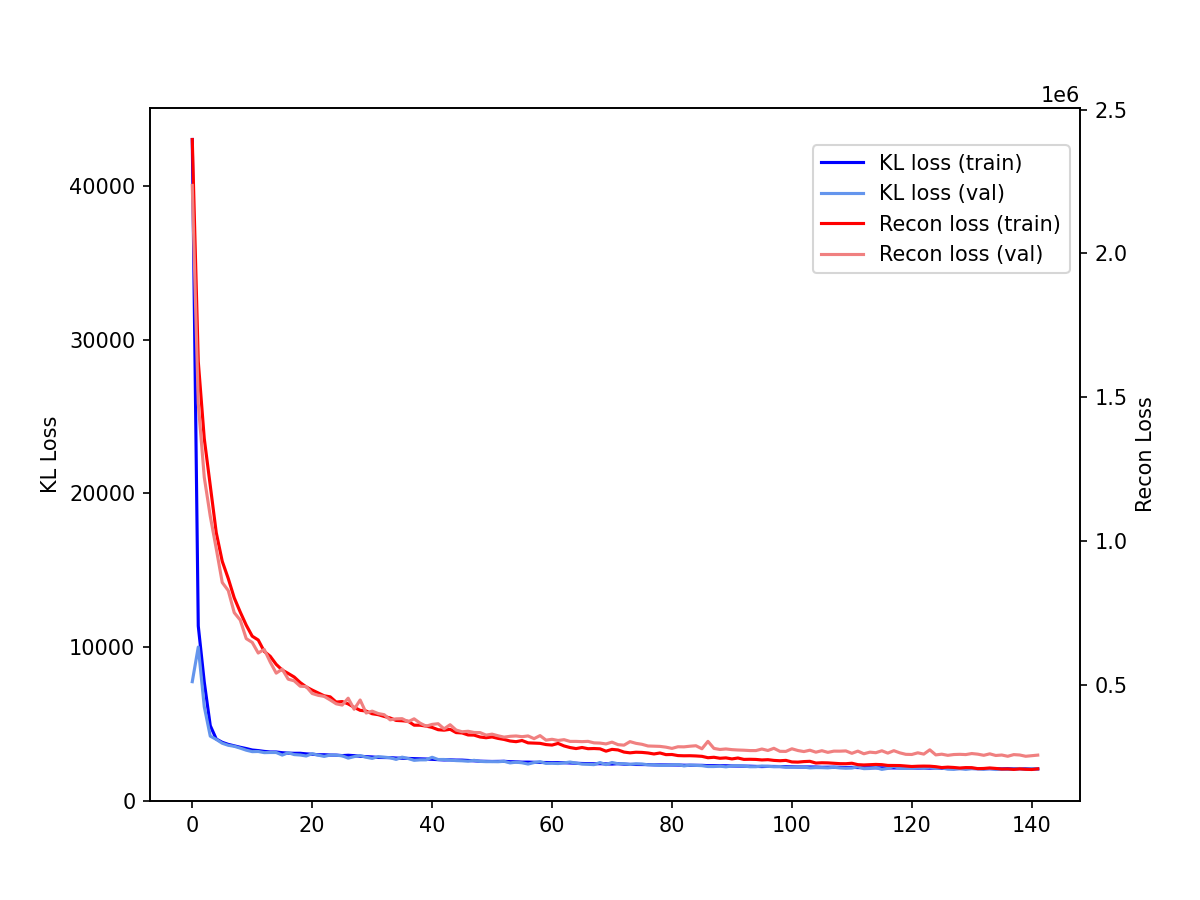
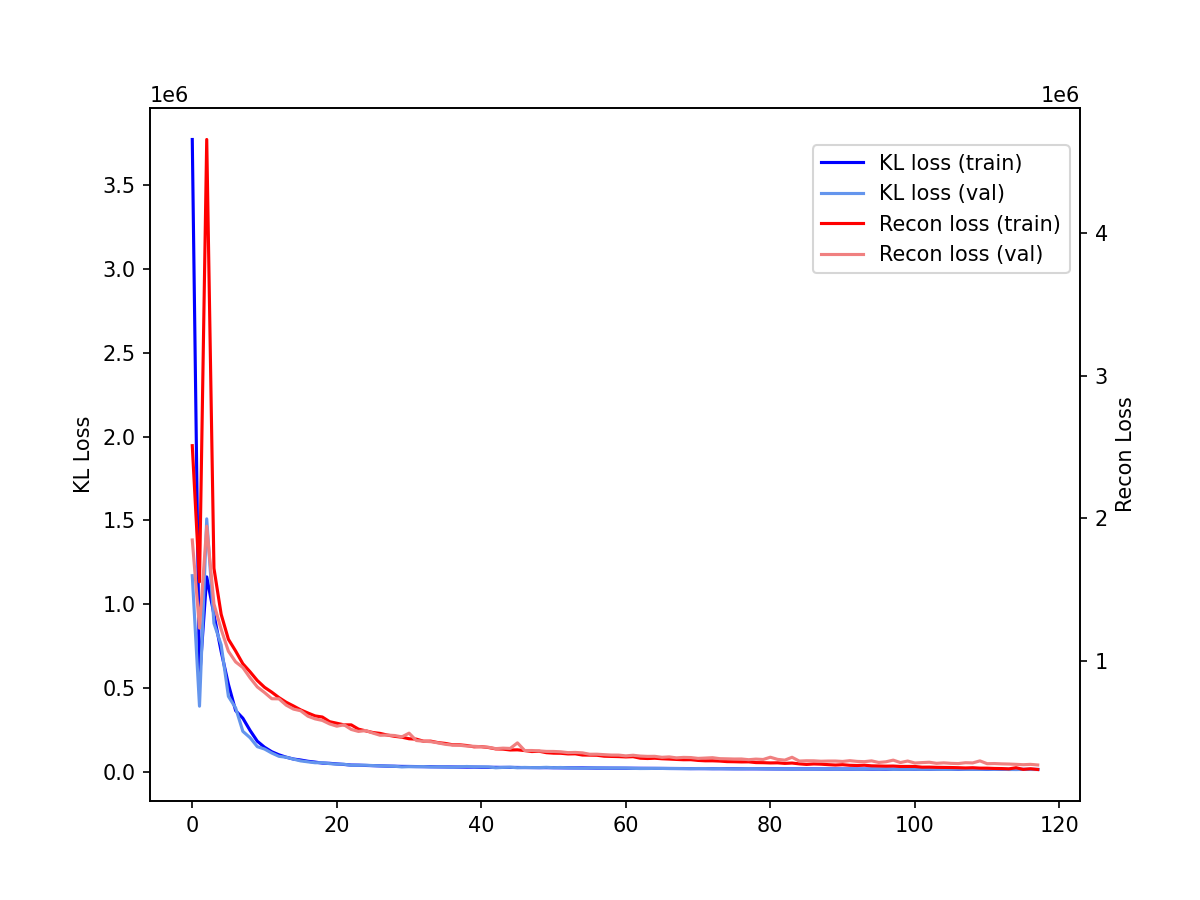
env.yml

diff --git a/train.py b/train.py
@@ -5,6 +5,7 @@ from plotting import plot_examples
 
 scaler = torch.cuda.amp.GradScaler()
 
+
 def train_loop(dataloader, model, loss_fn_kl, loss_fn_recon, optimizer, amp_on):
     """TRAIN_LOOP - Runs training for one epoch
     
@@ -37,7 +38,7 @@ def train_loop(dataloader, model, loss_fn_kl, loss_fn_recon, optimizer, amp_on):
             y_pred, z_mean, z_log_sigma = model(X)
             batch_loss_kl = loss_fn_kl(z_mean, z_log_sigma)
             batch_loss_recon = loss_fn_recon(y_pred, y)
-            batch_loss = batch_loss_kl + batch_loss_recon  # Consider weights here. IDK which loss is gonna dominate
+            batch_loss = 0.01 * batch_loss_kl + batch_loss_recon  # Consider weights here. IDK which loss is gonna dominate
 
         # Backpropagation - with GradScaler for optional automatic mixed precision
         scaler.scale(batch_loss).backward()
@@ -73,6 +74,9 @@ def val_loop(dataloader, model, loss_fn_kl, loss_fn_recon, epoch_number):
         loss_fn_recon (nn.Module): Reconstruction loss - e.g. L1, L2 (mse)
         epoch_number (int): epoch counter for saving plots
     """
+    # Stop training during validation
+    model.eval()
+
     size = len(dataloader.dataset)
     num_batches = len(dataloader)
     loss_kl, loss_recon = 0, 0
@@ -116,12 +120,15 @@ def test_loop(dataloader, model, loss_fn_kl, loss_fn_recon, plot_save_dir):
     Returns:
 
     """
+    # Do not train model at test time
+    model.eval()
+
     size = len(dataloader.dataset)
     num_batches = len(dataloader)
     loss_kl, loss_recon = 0, 0
-    psnr = [] # A list of per-batch PSNR values
-    ssim = [] # A list of per-image SSIM values
-    ssim_norm = [] # A list of per-image SSIM values computed on normalized images
+    psnr = []  # A list of per-batch PSNR values
+    ssim = []  # A list of per-image SSIM values
+    ssim_norm = []  # A list of per-image SSIM values computed on normalized images
 
     with torch.no_grad():
         for batch, (X, y) in enumerate(dataloader):
@@ -139,10 +146,10 @@ def test_loop(dataloader, model, loss_fn_kl, loss_fn_recon, plot_save_dir):
                           y_pred=y_pred.cpu(),
                           plot_path=plot_save_dir + "test_examples_batch_" + str(batch) + ".png")
 
-            psnr = psnr.append(calculate_psnr(y, y_pred))
+            psnr.append(calculate_psnr(y, y_pred))
             s, s_norm = calculate_ssim(y, y_pred)
-            ssim = ssim.extend(s)
-            ssim_norm = ssim_norm.extend(s_norm)
+            ssim.append(s)
+            ssim_norm.append(s_norm)
 
     loss_kl /= num_batches
     loss_recon /= num_batches

diff --git a/model.py b/model.py
@@ -85,18 +85,6 @@ class Encoder(nn.Module):
         self.res_block4 = ResNetBlock(channels=256, kernel_size=3)
         self.MaxPool4 = nn.MaxPool2d(3, stride=2, padding=1)
 
-        self.kaiming_init()
-
-    def xavier_init(self):
-        for weight in self.parameters():
-            std_dev = 1.0 / math.sqrt(weight.size(0))
-            torch.nn.init.uniform_(weight, -std_dev, std_dev)
-
-    def kaiming_init(self):
-        for param in self.parameters():
-            std = math.sqrt(2 / param.size(0))
-            torch.nn.init.normal_(param, mean=0, std=std)
-
     def forward(self, x):
         x1 = self.conv1(x)
         x1 = self.res_block1(x1)
@@ -134,18 +122,6 @@ class Decoder(nn.Module):
         self.upsize1 = UpConvBlock(channels_in=32, channels_out=1, kernel_size=1, scale_factor=2)
         self.res_block1 = ResNetBlock(channels=1, kernel_size=3)
 
-        self.kaiming_init()
-
-    def xavier_init(self):
-        for param in self.parameters():
-            std_dev = 1.0 / math.sqrt(param.size(0))
-            torch.nn.init.uniform_(param, -std_dev, std_dev)
-
-    def kaiming_init(self):
-        for param in self.parameters():
-            std = math.sqrt(2 / param.size(0))
-            torch.nn.init.normal_(param, mean=0, std=std)
-
     def forward(self, x):
         x4_ = self.linear_up(x)
         x4_ = self.relu(x4_)
@@ -181,12 +157,17 @@ class VAE(nn.Module):
         self.encoder = Encoder()
         self.decoder = Decoder(latent_dim)
 
-        self.kaiming_init()
+        self.xavier_init()
 
     def kaiming_init(self):
         for param in self.parameters():
             std = math.sqrt(2 / param.size(0))
             torch.nn.init.normal_(param, mean=0, std=std)
+
+    def xavier_init(self):
+        for param in self.parameters():
+            std_dev = 1.0 / math.sqrt(param.size(0))
+            torch.nn.init.uniform_(param, -std_dev, std_dev)
 
     def forward(self, x):
         x = self.encoder(x)

diff --git a/main_train.py b/main_train.py
@@ -20,6 +20,7 @@ weight_decay = 5e-7
 train_val_test_split = [0.8, 0.1, 0.1]  # Proportion of data for training, validation, and testing. Sums to 1
 device = 'cuda'
 resume = False  # Resume training from best_epoch.tar?
+use_amp = False  # Use automatic mixed precision?
 
 data_dir = '/home/daniel/datasets/ACRIN-NSCLC-FDG-PET-cleaned/'
 save_dir = './saved_models/'
@@ -49,8 +50,6 @@ train_dataloader = DataLoader(train_dataset,
 val_dataloader = DataLoader(val_dataset,
                             batch_size=batch_size,
                             shuffle=True)
-
-
 
 # Initialize model and optimizer
 model = VAE()
@@ -83,7 +82,7 @@ for t in range(max_epochs):
                                                  loss_fn_kl=KLDivergence(),
                                                  loss_fn_recon=L2Loss(),
                                                  optimizer=optimizer,
-                                                 amp_on=False)
+                                                 amp_on=use_amp)
 
     val_loss_kl, val_loss_recon = val_loop(dataloader=val_dataloader,
                                            model=model,

diff --git a/main_inference.py b/main_inference.py
@@ -34,6 +34,10 @@ train_dataset, val_dataset, test_dataset = random_split(dataset,
                                                         train_val_test_split,
                                                         torch.Generator().manual_seed(91722))
 
+val_dataloader = DataLoader(val_dataset,
+                            batch_size=batch_size,
+                            shuffle=True)
+
 test_dataloader = DataLoader(test_dataset,
                              batch_size=batch_size,
                              shuffle=True)
@@ -49,7 +53,7 @@ model_test, _ = load_from_checkpoint(checkpoint_path=save_dir + "best_epoch.tar"
                                      model=model_test,
                                      optimizer=optimizer)
 
-test_loss_kl, test_loss_recon = test_loop(dataloader=test_dataloader,
+test_loss_kl, test_loss_recon = test_loop(dataloader=val_dataloader,
                                           model=model_test,
                                           loss_fn_kl=KLDivergence(),
                                           loss_fn_recon=L2Loss(),

diff --git a/loss.py b/loss.py
@@ -24,7 +24,7 @@ class L2Loss(nn.Module):
         super(L2Loss, self).__init__()
 
     def forward(self, x, y):
-        return ((x - y) ** 2).mean()
+        return ((x - y) ** 2).mean() # was .mean()
 
 
 class L1Loss(nn.Module):

diff --git a/plotting.py b/plotting.py
@@ -13,6 +13,7 @@ def plot_examples(X, y_pred, plot_path):
 
     Returns:
 
+    TODO:L behavior at end of dataloader. Crashes if <32 slices left
     """
     # Limit plot to 32 slices -
     X = X[:32, :, :, :]
